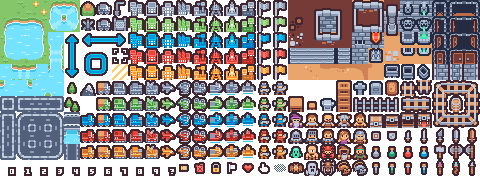
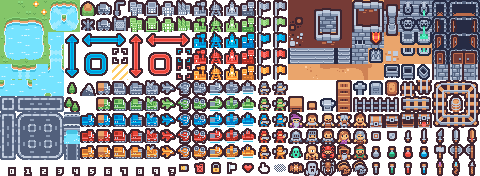
added player specific arrows

Changed region(s): [[0.25, 0.1705, 0.4062, 0.4545]]

diff --git a/src/game/arrows.rs b/src/game/arrows.rs
@@ -5,9 +5,13 @@ use bevy::{
     entity::Entity,
     event::EventReader,
     query::With,
-    schedule::NextState,
+    schedule::{NextState, State},
     system::{Commands, Query, Res, ResMut, Resource},
-  }, hierarchy::DespawnRecursiveExt, input::{keyboard::KeyCode, ButtonInput}, sprite::{SpriteSheetBundle, TextureAtlas}, utils::HashMap
+  },
+  hierarchy::DespawnRecursiveExt,
+  input::{keyboard::KeyCode, ButtonInput},
+  sprite::{SpriteSheetBundle, TextureAtlas},
+  utils::HashMap,
 };
 use bevy_ecs_ldtk::{GridCoords, LdtkEntity};
 use bevy_ecs_tilemap::{
@@ -26,7 +30,8 @@ use crate::{
 };
 
 use super::{
-  cursor::Cursor, input::MovementInput, GameEntity, GameState, ZoneMap,
+  cursor::Cursor, input::MovementInput, ArrowMap, GameEntity, GameState,
+  TurnState, ZoneMap,
 };
 
 #[derive(Default, Component)]
@@ -93,24 +98,38 @@ impl std::ops::DerefMut for ArrowHead {
 pub fn create_arrow_chunk(
   arrow_index: usize,
   grid_coords: GridCoords,
-) -> ArrowChunkBundle {
-  let mut arrow_chunk = ArrowChunkBundle::default();
-  arrow_chunk.sprite_bundle.transform.translation.z = 20.0;
-  arrow_chunk.sprite_bundle.texture = ATLAS_INFO.get().unwrap().image.clone();
-  arrow_chunk.sprite_bundle.atlas = TextureAtlas {
-    layout: ATLAS_INFO.get().unwrap().layout.clone(),
-    index: arrow_index,
-  };
-  arrow_chunk.grid_coords = grid_coords;
-  arrow_chunk
+  tilemap_id: Entity,
+) -> impl Bundle {
+  (
+    TileBundle {
+      position: TilePos {
+        x: grid_coords.x as u32,
+        y: grid_coords.y as u32,
+      },
+      texture_index: TileTextureIndex(arrow_index as u32),
+      tilemap_id: TilemapId(tilemap_id),
+      ..Default::default()
+    },
+    ArrowChunk,
+  )
+}
+
+#[inline]
+pub fn arrow_index_turn_parity(
+  arrow_index: usize,
+  turn_state: &TurnState,
+) -> usize {
+  arrow_index + ((*turn_state == TurnState::Player2) as usize * 4)
 }
 
 pub fn move_arrow_head(
   mut commands: Commands,
   arrow_chunks: Query<Entity, With<ArrowChunk>>,
+  arrow_map: Query<Entity, With<ArrowMap>>,
   mut arrow_head: ResMut<ArrowHead>,
   keys: Res<ButtonInput<KeyCode>>,
   moveable_region: Res<MoveableRegion>,
+  current_turn_state: Res<State<TurnState>>,
   mut next_game_state: ResMut<NextState<GameState>>,
   mut movement_events: EventReader<MovementInput>,
 ) {
@@ -145,14 +164,18 @@ pub fn move_arrow_head(
   if let Some(first_parent_coords) = moveable_region.get(&current_coords) {
     let distance = current_coords - *first_parent_coords;
     commands.spawn(create_arrow_chunk(
-      match (distance.x, distance.y) {
-        (-1, 0) => ARROW_HEAD_L,
-        (1, 0) => ARROW_HEAD_R,
-        (0, -1) => ARROW_HEAD_D,
-        (0, 1) => ARROW_HEAD_U,
-        _ => unreachable!(),
-      },
+      arrow_index_turn_parity(
+        match (distance.x, distance.y) {
+          (-1, 0) => ARROW_HEAD_L,
+          (1, 0) => ARROW_HEAD_R,
+          (0, -1) => ARROW_HEAD_D,
+          (0, 1) => ARROW_HEAD_U,
+          _ => unreachable!(),
+        },
+        &current_turn_state,
+      ),
       current_coords,
+      arrow_map.single(),
     ));
   }
 
@@ -182,7 +205,11 @@ pub fn move_arrow_head(
       _ => unreachable!(),
     };
 
-    commands.spawn(create_arrow_chunk(arrow_index, *target_coords));
+    commands.spawn(create_arrow_chunk(
+      arrow_index_turn_parity(arrow_index, &current_turn_state),
+      *target_coords,
+      arrow_map.single(),
+    ));
 
     current_coords = *target_coords;
   }
@@ -240,16 +267,18 @@ pub fn calculate_moveable_region(
       x: moveable_coord.x as u32,
       y: moveable_coord.y as u32,
     };
-    let tile = commands.spawn((TileBundle {
-      position: tile_pos,
-      texture_index: TileTextureIndex(ZONE_MOVE as u32),
-      tilemap_id: TilemapId(zone_map.single().0),
-      ..Default::default()
-    }, MovementZone)).id();
-    zone_map.single_mut().1.set(
-      &tile_pos,
-      tile,
-    );
+    let tile = commands
+      .spawn((
+        TileBundle {
+          position: tile_pos,
+          texture_index: TileTextureIndex(ZONE_MOVE as u32),
+          tilemap_id: TilemapId(zone_map.single().0),
+          ..Default::default()
+        },
+        MovementZone,
+      ))
+      .id();
+    zone_map.single_mut().1.set(&tile_pos, tile);
   }
 
   commands.insert_resource(MoveableRegion(moveable));

diff --git a/src/game.rs b/src/game.rs
@@ -5,9 +5,8 @@ use crate::{
 use bevy::{prelude::*, render::camera::ScalingMode};
 use bevy_ecs_ldtk::prelude::*;
 use bevy_ecs_tilemap::{
-  helpers::geometry::get_tilemap_center_transform,
   map::{
-    TilemapGridSize, TilemapSize, TilemapTexture, TilemapTileSize, TilemapType,
+    TilemapSize, TilemapTexture, TilemapTileSize, TilemapType,
   },
   tiles::TileStorage,
   TilemapBundle,
